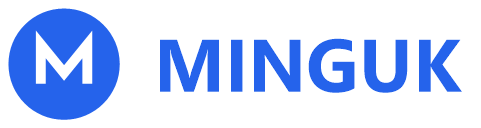
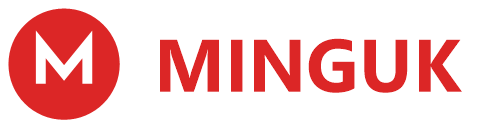
로고 색을 레드(#DC2626)로
블루(#2563EB)에서 교체. 워드마크와 아이콘 7종 모두 재생성했고
exe 에 임베드된 아이콘도 새 색으로 들어간 것을 확인했다.

Changed region(s): [[0.3119, 0.2812, 0.9667, 0.75], [0.0, 0.0625, 0.2495, 0.9375]]

diff --git a/Minguk.Tools/SplashScreen/StartupSplashScreen.xaml b/Minguk.Tools/SplashScreen/StartupSplashScreen.xaml
@@ -28,7 +28,7 @@
         </Grid.RowDefinitions>
 
         <dx:DXImage x:Name="PART_Logo"
-                    Width="140"
+                    Width="Auto"
                     Height="40"
                     Style="{DynamicResource ResourceKey={dxt:FluentSplashScreenThemeKey ResourceKey=LogoImageStyle}}"
                     Source="{Binding Logo}"
